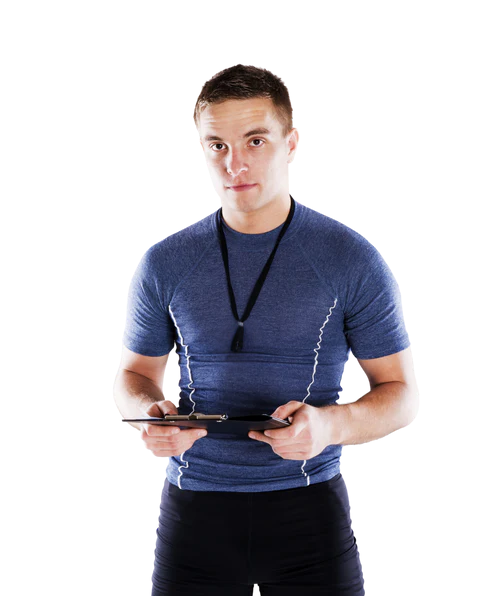
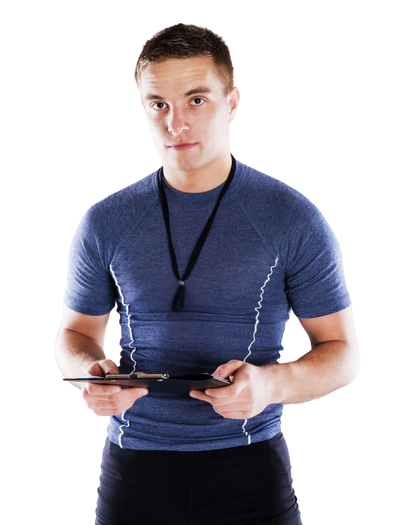
remaining minor changes

Changed region(s): [[0.1527, 0.0305, 0.916, 1.0], [0.4885, 0.9752, 0.5191, 1.0]]

diff --git a/src/components/ComparisonSection.jsx b/src/components/ComparisonSection.jsx
@@ -54,7 +54,7 @@ const ComparisonSection = () => {
     ],
   };
 
-  const data = comparisonData || defaultData;
+  const data = defaultData;
   const leftItems = data.leftSideItems || [];
   const rightItems = data.rightSideItems || [];
 
@@ -96,16 +96,17 @@ const ComparisonSection = () => {
         <div className="grid grid-cols-2 gap-2 max-sm:gap-1 relative overflow-x-hidden mb-6">
           {/* Travel Agency Side */}
           <div className="rounded-3xl max-sm:rounded-2xl flex flex-col items-center gap-3">
-            <div className="aspect-square w-full max-sm:h-[140px] md:h-[346px] mb-4 max-sm:mb-2 rounded-[30px] max-sm:rounded-[20px] overflow-hidden bg-gray-100">
-              <Image
+            <div className="aspect-square w-full md:h-[335px] mb-4 max-sm:mb-2 rounded-[30px] max-sm:rounded-[20px] overflow-hidden bg-gray-100">
+              <img
+                src="/image/visa-agency.png"
                 width={384}
-                height={346}
-                src={data.leftSideImage || "/image/visa-agency.png"}
+                height={335}
                 alt={data.leftSideTitle || "Travel Agency Representative"}
-                className="w-full h-full md:object-center object-top  object-cover"
+                className="w-full h-full object-cover"
               />
             </div>
           </div>
+
           <div className="flex justify-center bg-white p-0.5 md:p-[8px] top-1/2 -translate-y-1/2 rounded-full absolute left-1/2 -translate-x-1/2 z-10">
             <img
               src="/image/vs.svg"